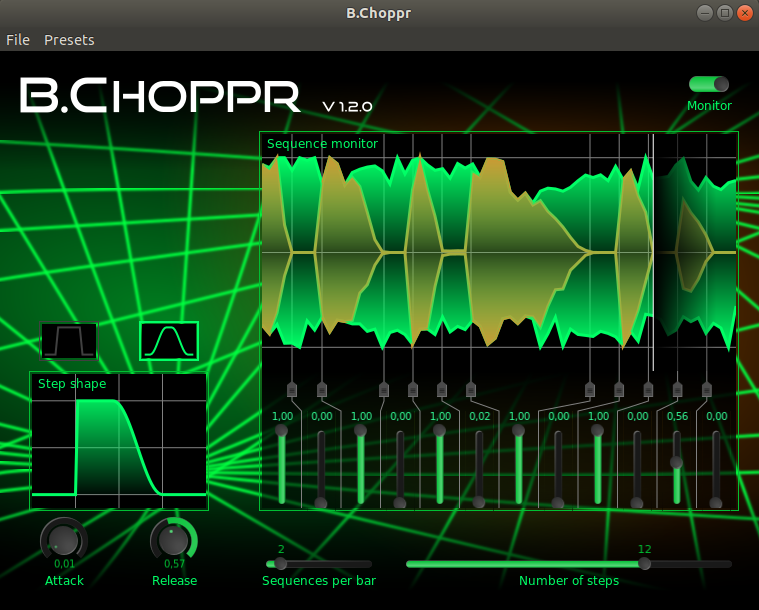
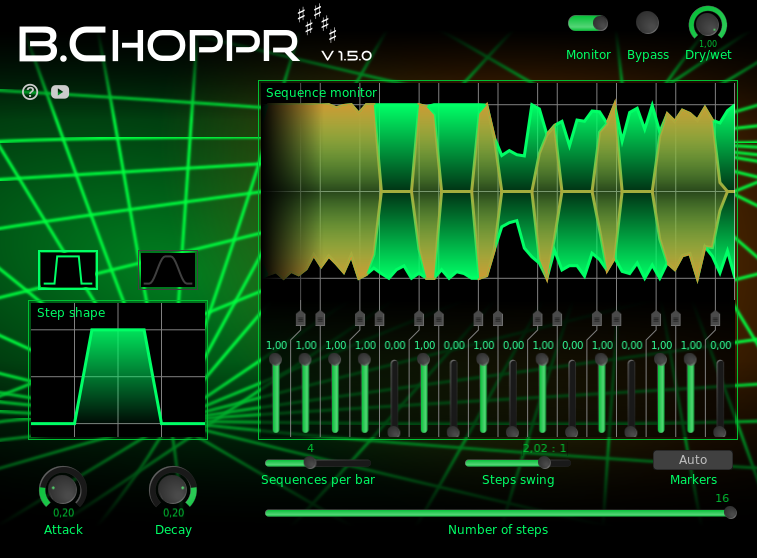
Help button

diff --git a/src/HaloButton.hpp b/src/HaloButton.hpp
@@ -1,0 +1,144 @@
+/* B.Harvestr
+ * LV2 Plugin
+ *
+ * Copyright (C) 2019 by Sven Jähnichen
+ *
+ * This program is free software; you can redistribute it and/or modify
+ * it under the terms of the GNU General Public License as published by
+ * the Free Software Foundation; either version 3, or (at your option)
+ * any later version.
+ *
+ * This program is distributed in the hope that it will be useful,
+ * but WITHOUT ANY WARRANTY; without even the implied warranty of
+ * MERCHANTABILITY or FITNESS FOR A PARTICULAR PURPOSE.  See the
+ * GNU General Public License for more details.
+ *
+ * You should have received a copy of the GNU General Public License
+ * along with this program; if not, write to the Free Software Foundation,
+ * Inc., 59 Temple Place - Suite 330, Boston, MA 02111-1307, USA.
+ */
+
+#ifndef HALOBUTTON_HPP_
+#define HALOBUTTON_HPP_
+
+#include "BWidgets/ValueWidget.hpp"
+#include "BWidgets/Focusable.hpp"
+#include "BWidgets/Label.hpp"
+
+class HaloButton : public BWidgets::ValueWidget, public BWidgets::Focusable
+{
+public:
+	HaloButton () : HaloButton (0, 0, 0, 0, "halobutton", "") {}
+
+	HaloButton (const double x, const double y, const double width, const double height, const std::string& name, const std::string& focusText) :
+		ValueWidget (x, y, width, height, name, 0.0),
+		Focusable (std::chrono::milliseconds (BWIDGETS_DEFAULT_FOCUS_IN_MS),
+			   std::chrono::milliseconds (BWIDGETS_DEFAULT_FOCUS_OUT_MS)),
+			   focusLabel_ (0, 0, 40, 20, name_ + BWIDGETS_DEFAULT_FOCUS_NAME, focusText)
+   	{
+   		focusLabel_.setOversize (true);
+   		focusLabel_.resize ();
+   		focusLabel_.hide ();
+   		add (focusLabel_);
+   	}
+
+	HaloButton (const HaloButton& that) :
+		ValueWidget (that), Focusable (that),
+		focusLabel_ (that.focusLabel_)
+	{
+		focusLabel_.hide();
+		add (focusLabel_);
+	}
+
+	HaloButton& operator= (const HaloButton& that)
+	{
+		release (&focusLabel_);
+		focusLabel_ = that.focusLabel_;
+		focusLabel_.hide();
+
+		Widget::operator= (that);
+		Focusable::operator= (that);
+
+		add (focusLabel_);
+
+		return *this;
+
+	}
+
+	virtual BWidgets::Widget* clone () const override {return new HaloButton (*this);}
+
+	virtual void applyTheme (BStyles::Theme& theme) override {applyTheme (theme, name_);}
+
+	virtual void applyTheme (BStyles::Theme& theme, const std::string& name) override
+	{
+		Widget::applyTheme (theme, name);
+		focusLabel_.applyTheme (theme, name + BWIDGETS_DEFAULT_FOCUS_NAME);
+		focusLabel_.resize();
+	}
+
+	virtual void onButtonPressed (BEvents::PointerEvent* event) override
+	{
+		setValue (1.0);
+		Widget::cbfunction_[BEvents::EventType::BUTTON_PRESS_EVENT] (event);
+	}
+
+	virtual void onButtonReleased (BEvents::PointerEvent* event) override
+	{
+		setValue (0.0);
+		Widget::cbfunction_[BEvents::EventType::BUTTON_RELEASE_EVENT] (event);
+	}
+
+	virtual void onFocusIn (BEvents::FocusEvent* event) override
+	{
+		if (event && event->getWidget())
+		{
+			BUtilities::Point pos = event->getPosition();
+			focusLabel_.moveTo (pos.x - 0.5 * focusLabel_.getWidth(), pos.y - focusLabel_.getHeight());
+			focusLabel_.show();
+		}
+		Widget::onFocusIn (event);
+	}
+
+	virtual void onFocusOut (BEvents::FocusEvent* event) override
+	{
+		if (event && event->getWidget()) focusLabel_.hide();
+		Widget::onFocusOut (event);
+	}
+
+protected:
+	BWidgets::Label focusLabel_;
+
+	void draw (const BUtilities::RectArea& area)
+	{
+		if ((!widgetSurface_) || (cairo_surface_status (widgetSurface_) != CAIRO_STATUS_SUCCESS)) return;
+
+		if ((getWidth () >= 1) && (getHeight () >= 1))
+		{
+			// Draw super class widget elements first
+			Widget::draw (area);
+
+			if (value == 1.0)
+			{
+				cairo_t* cr = cairo_create (widgetSurface_);
+				if (cairo_status (cr) == CAIRO_STATUS_SUCCESS)
+				{
+					// Limit cairo-drawing area
+					cairo_rectangle (cr, area.getX (), area.getY (), area.getWidth (), area.getHeight ());
+					cairo_clip (cr);
+
+					double x0 = getXOffset ();
+					double y0 = getYOffset ();
+					double w = getEffectiveWidth ();
+					double h = getEffectiveHeight ();
+					cairo_rectangle (cr, x0, y0, w, h);
+					cairo_set_line_width (cr, 1.0);
+					cairo_set_source_rgba (cr, CAIRO_RGBA (BColors::green));
+					cairo_stroke (cr);
+					cairo_destroy (cr);
+				}
+			}
+		}
+	}
+};
+
+#endif /* HALOBUTTON_HPP_ */

diff --git a/src/BChoppr_GUI.cpp b/src/BChoppr_GUI.cpp
@@ -36,6 +36,8 @@ BChoppr_GUI::BChoppr_GUI (const char *bundle_path, const LV2_Feature *const *fea
 	bypassLabel (620, 45, 60, 20, "label", "Bypass"),
 	drywetDial (690, 5, 40, 48, "dial", 1.0, 0.0, 1.0, 0.0, "%1.2f"),
 	drywetLabel (680, 45, 60, 20, "label", "Dry/wet"),
+	helpButton (20, 80, 24, 24, "halobutton", "Help"),
+	ytButton (50, 80, 24, 24, "halobutton", "Tutorial"),
 	monitorDisplay (3, 3, 474, 217, "mmonitor"),
 	rectButton (40, 250, 60, 40, "abutton"),
 	sinButton (140, 250, 60, 40, "nbutton"),
@@ -87,6 +89,8 @@ BChoppr_GUI::BChoppr_GUI (const char *bundle_path, const LV2_Feature *const *fea
 	markersAutoButton.setCallbackFunction (BEvents::EventType::VALUE_CHANGED_EVENT, BChoppr_GUI::markersAutoClickedCallback);
 	rectButton.setCallbackFunction (BEvents::EventType::BUTTON_PRESS_EVENT, BChoppr_GUI::buttonClickedCallback);
 	sinButton.setCallbackFunction (BEvents::EventType::BUTTON_PRESS_EVENT, BChoppr_GUI::buttonClickedCallback);
+	helpButton.setCallbackFunction(BEvents::BUTTON_PRESS_EVENT, helpButtonClickedCallback);
+	ytButton.setCallbackFunction(BEvents::BUTTON_PRESS_EVENT, ytButtonClickedCallback);
 
 	// Configure widgets
 	bgImageSurface = cairo_image_surface_create_from_png ((pluginPath + BG_FILE).c_str());
@@ -148,6 +152,8 @@ BChoppr_GUI::BChoppr_GUI (const char *bundle_path, const LV2_Feature *const *fea
 	mContainer.add (bypassLabel);
 	mContainer.add (drywetDial);
 	mContainer.add (drywetLabel);
+	mContainer.add (helpButton);
+	mContainer.add (ytButton);
 	mContainer.add (rectButton);
 	mContainer.add (sinButton);
 	mContainer.add (stepshapeDisplay);
@@ -329,6 +335,8 @@ void BChoppr_GUI::resizeGUI()
 	RESIZE (bypassLabel, 620, 45, 60, 20, sz);
 	RESIZE (drywetDial, 690, 5, 40, 48, sz);
 	RESIZE (drywetLabel, 680, 45, 60, 20, sz);
+	RESIZE (helpButton, 20, 80, 24, 24, sz);
+	RESIZE (ytButton, 50, 80, 24, 24, sz);
 	RESIZE (monitorDisplay, 3, 3, 474, 217, sz);
 	RESIZE (rectButton, 40, 250, 60, 40, sz);
 	RESIZE (sinButton, 140, 250, 60, 40, sz);
@@ -382,6 +390,8 @@ void BChoppr_GUI::applyTheme (BStyles::Theme& theme)
 	bypassLabel.applyTheme (theme);
 	drywetDial.applyTheme (theme);
 	drywetLabel.applyTheme (theme);
+	helpButton.applyTheme (theme);
+	ytButton.applyTheme (theme);
 	monitorDisplay.applyTheme (theme);
 	rectButton.applyTheme (theme);
 	sinButton.applyTheme (theme);
@@ -836,6 +846,9 @@ void BChoppr_GUI::buttonClickedCallback (BEvents::Event* event)
 	float fblend = ui->blend;
 	ui->write_function(ui->controller, Blend, sizeof(fblend), 0, &fblend);
 }
+
+void BChoppr_GUI::helpButtonClickedCallback (BEvents::Event* event) {system(OPEN_CMD " " HELP_URL);}
+void BChoppr_GUI::ytButtonClickedCallback (BEvents::Event* event) {system(OPEN_CMD " " YT_URL);}
 
 bool BChoppr_GUI::init_Stepshape ()
 {

diff --git a/src/BChoppr_GUI.hpp b/src/BChoppr_GUI.hpp
@@ -39,6 +39,7 @@
 #include "Marker.hpp"
 #include "LightButton.hpp"
 #include "SwingHSlider.hpp"
+#include "HaloButton.hpp"
 
 #include "definitions.hpp"
 #include "Urids.hpp"
@@ -63,6 +64,9 @@ enum MessageNr
 #define CAIRO_INK2 0.8, 0.6, 0.2
 
 #define BG_FILE "surface.png"
+#define HELP_URL "https://github.com/sjaehn/BChoppr/blob/master/README.md"
+#define YT_URL ""
+#define OPEN_CMD "xdg-open"
 
 #define DB_CO(g) ((g) > -90.0f ? powf(10.0f, (g) * 0.05f) : 0.0f)
 #define CO_DB(g) ((g) > 0.0001f ? logf((g)) / 0.05f : -90.0f)
@@ -104,6 +108,8 @@ private:
         static void listBoxChangedCallback (BEvents::Event* event);
         static void markersAutoClickedCallback (BEvents::Event* event);
         static void buttonClickedCallback (BEvents::Event* event);
+        static void helpButtonClickedCallback (BEvents::Event* event);
+	static void ytButtonClickedCallback (BEvents::Event* event);
 	bool init_Stepshape ();
 	void destroy_Stepshape ();
 	void redrawStepshape ();
@@ -124,6 +130,8 @@ private:
         BWidgets::Label bypassLabel;
         BWidgets::DialValue drywetDial;
         BWidgets::Label drywetLabel;
+        HaloButton helpButton;
+        HaloButton ytButton;
 	BWidgets::DrawingSurface monitorDisplay;
         BWidgets::DrawingSurface rectButton;
         BWidgets::DrawingSurface sinButton;
